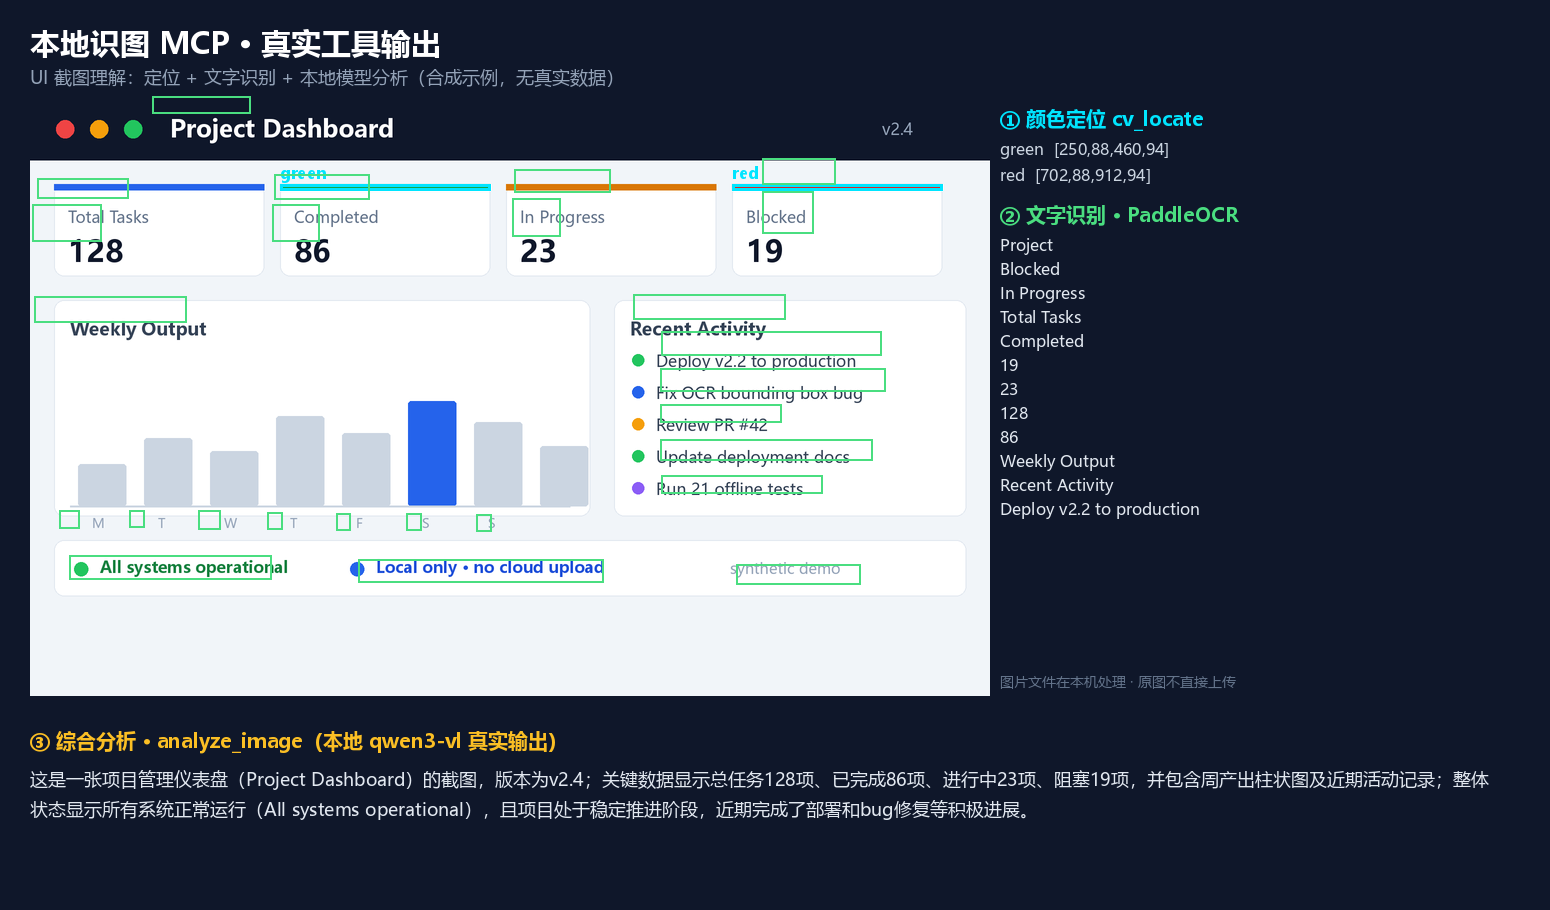
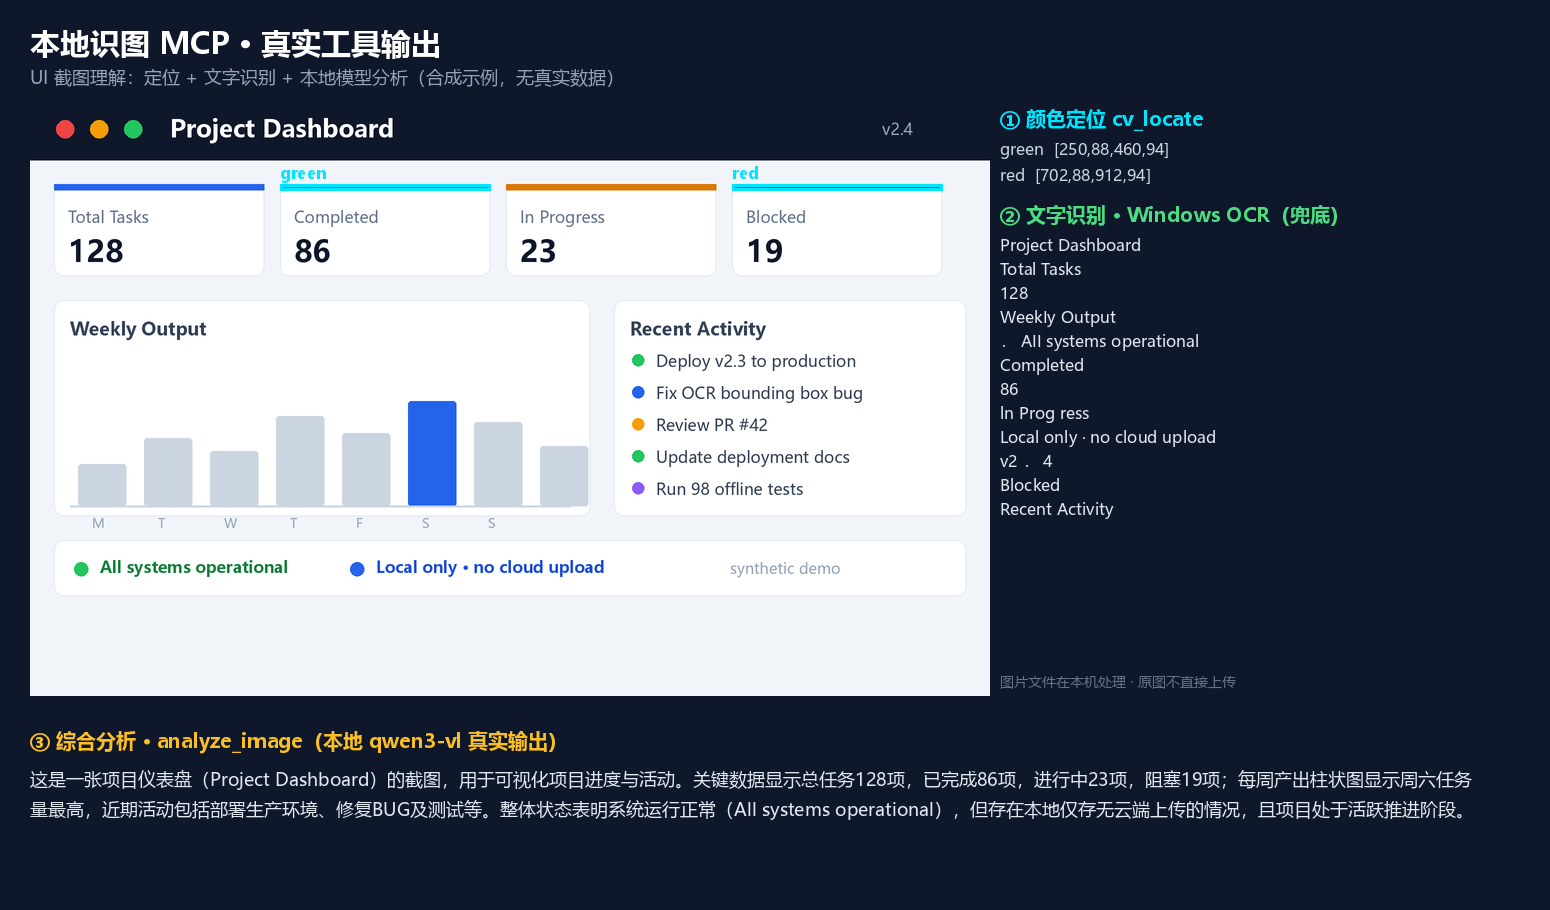
docs(v2.3.0): 全项目过时内容收尾——版本号/工具数/测试数/发布说明/目录树/示例图全部对齐
- README/EN 健壮性章节 v2.2->v2.3；兼容性'已验证组合'改为'协议+CLI 兜底已实测'
- CHANGELOG v2.3.0 日期更正为 08-10；SKILL 版本头 v2.2->v2.3
- 架构说明目录树补 call_tool/register_mcp/check_mcp/AGENTS/使用指南
- release-notes-v2.3.0 全面更新（98 项测试、CLI 兜底、全局 AGENTS、注册安全、args-file、负载规则）
- 部署手册标注 install-skill 同时安装全局 AGENTS；ROADMAP 补已完成项
- 示例图生成脚本文案更新（12 个工具/98 项测试/v2.3），重新生成 architecture/social_preview/demo_annotated

diff --git a/examples/make_showcase_images.py b/examples/make_showcase_images.py
@@ -107,11 +107,11 @@ def make_demo_input(scale=2):
     d.rounded_rectangle([584 * S, 204 * S, 936 * S, 420 * S], radius=10 * S, fill="#ffffff", outline="#e2e8f0", width=1 * S)
     d.text((600 * S, 220 * S), "Recent Activity", font=font(FONT_BOLD, 18 * S), fill="#334155")
     acts = [
-        ("#22c55e", "Deploy v2.2 to production"),
+        ("#22c55e", "Deploy v2.3 to production"),
         ("#2563eb", "Fix OCR bounding box bug"),
         ("#f59e0b", "Review PR #42"),
         ("#22c55e", "Update deployment docs"),
-        ("#8b5cf6", "Run 21 offline tests"),
+        ("#8b5cf6", "Run 98 offline tests"),
     ]
     ay = 254 * S
     for color, text in acts:
@@ -287,7 +287,7 @@ def make_social_preview():
     d.text((70, 232), "本地眼睛", font=font(FONT_BOLD, 84), fill="#ffffff")
     d.text((70, 344), "OCR · 检测 · 分割 · 零样本 · 定位 · 裁切放大", font=font(FONT_REG, 38), fill="#cbd5e1")
     d.text((70, 400), "图片文件不出本机 · 视觉识别全本地", font=font(FONT_REG, 38), fill="#7dd3fc")
-    chips = ["11 个工具", "21 项离线测试", "相同图片缓存秒回", "多轮闭环防幻觉"]
+    chips = ["12 个工具", "98 项离线测试", "相同图片缓存秒回", "多轮闭环防幻觉"]
     cx, cy = 70, 492
     for chip in chips:
         tw = d.textlength(chip, font=font(FONT_BOLD, 26))
@@ -319,7 +319,7 @@ def make_architecture():
 
     box(50, 210, 260, 240, "MCP 客户端", ["Codex / Claude Code", "Cursor / Trae / opencode", "", "纯文本主模型", "DeepSeek 等"], "#7dd3fc")
     box(380, 70, 300, 170, "vision-perceive skill", ["快速/详细模式决策", "多轮识图闭环", "概览→聚焦→交叉校验"], "#fbbf24")
-    box(760, 70, 340, 170, "server.py · MCP stdio", ["11 个工具：描述 / OCR / 检测", "/ 分割 / 零样本 / 定位 / 裁切", "/ 画框 / 信息 / 模型 / 状态"], "#38bdf8")
+    box(760, 70, 340, 170, "server.py · MCP stdio", ["12 个工具：描述 / OCR / 检测", "/ 分割 / 零样本 / 定位 / 裁切", "/ 画框 / 对比 / 信息 / 模型 / 状态"], "#38bdf8")
     draw_arrow(d, 310, 260, 380, 135, "#475569")
     draw_arrow(d, 680, 150, 760, 150, "#475569")
 

diff --git a/docs/release-notes-v2.3.0.md b/docs/release-notes-v2.3.0.md
@@ -1,16 +1,18 @@
-# v2.3.0 本地识图 MCP：DeepSeek 看图 + 多图支持
+# v2.3.0 本地识图 MCP：DeepSeek 看图 + 多图支持 + CLI 兜底
 
 给 DeepSeek 等纯文本模型补上本地"看图"能力：Ollama 视觉模型描述 + PaddleOCR 文字识别 + YOLO 检测/分割 + 零样本检测 + 颜色/模板定位 + 裁切放大 + 多图逐张/拼图对比，图片全程不出本机。
+**MCP 优先、命令行兜底**：客户端不注入 MCP 工具时，`call_tool.py` 命令行动手可用，不依赖客户端设置。
 
-## 功能总览（12 个工具）
+## 功能总览（12 个工具 + CLI 入口）
 
-- `analyze_image`：本地视觉模型看图；`file_paths` 多图自动**逐张完整分析**后合并返回（图1/图2…标签），quick / detailed 双模式
-- `compare_images`：**新增**。用户明确要求"对比 / 有什么区别"时，多图按编号拼成网格、一次分析异同
+- `analyze_image`：本地视觉模型看图；`file_paths` 多图自动逐张完整分析后合并返回，quick / detailed 双模式
+- `compare_images`：**新增**。用户明确要求对比时，多图按编号拼成网格、一次分析异同
 - `ocr_extract`：PaddleOCR 场景文字识别（含坐标框），未装自动回退 Windows OCR
 - `detect_objects` / `segment_objects` / `detect_by_text`：YOLO 检测 / 分割 / 零样本检测
 - `cv_locate`：颜色分割 / 模板匹配定位，不依赖深度学习模型
 - `crop_image` / `draw_bounding_box` / `image_info`：裁切放大、画框验证、尺寸信息
 - `list_local_models` / `vision_status`：模型列表与一键排障
+- `call_tool.py`：命令行调用入口（`python call_tool.py <工具名> '<JSON 参数>'`），MCP 不可用时等价使用
 
 ## v2.3.0 更新内容
 
@@ -18,23 +20,25 @@
 
 - 多图支持：`analyze_image(file_paths=[...])` 逐张独立分析后合并返回，不再静默丢弃第二张
 - `compare_images` 对比工具：多图拼成带编号的网格图，一次分析异同（拼接会缩小单图，细节请逐张分析）
-- 基准测试套件：47 个合成用例 + 指标报告（OCR / 颜色定位 / 模板匹配 / 裁切 / 输入校验），可复现
-- 英文 README（README.en.md）+ 首页英文简介；中文 Issue 模板；ROADMAP
-- 边界与纵深测试：`test_edge_cases.py`（22 项）+ `test_robustness.py`（28 项），全量 87 项离线测试
+- **CLI 兜底**：`call_tool.py` 直接参数 / `--args-file` / stdin 三种传参，客户端不注入 MCP 工具时同样可用
+- **全局 AGENTS.md**：`install-skill.ps1` 安装时写入本机识图工具入口，Codex 所有对话自动生效，无需贴指令
+- **skill 负载安全规则**：默认快速、详细模式前置说明、禁止并行重推理、单次任务模型调用上限 3 次
+- 基准测试套件：47 个合成用例 + 指标报告，可复现；英文 README；中文 Issue 模板；ROADMAP；识图使用指南
+- 边界与纵深测试：`test_edge_cases.py`（22 项）+ `test_robustness.py`（28 项）+ `test_cli.py`（11 项）
 
 **修复**
 
 - EXIF 方向：手机竖拍照片在分析 / 裁切 / 定位中自动转正
 - 非法颜色明确报错，不再静默降级为红色
-- `crop_image` 放大输出上限 50MP，防止内存被撑爆
-- 裁切右 / 下边界允许取到 w/h（原来永远少 1 像素）
+- `crop_image` 放大输出上限 50MP，防止内存被撑爆；裁切右 / 下边界允许取到 w/h
 - 透明 PNG 在拼图 / 画框中以白色打底，不再黑底
 - `OLLAMA_HOST` 带路径（如代理地址）时端口追加错位
 - PaddleOCR 结果解析器对畸形条目逐条防御，不再整页失败
+- 注册安全：`register_mcp.py` 外科手术式修改配置（备份 + 写前/写后校验 + 失败自动回滚 + 检测 Codex 运行中止）
 
 **测试**
 
-- 87 项离线测试全部通过；基准 44/47（3 个失败为 Windows OCR 真实误读：金额→全额、O→0、新→亲斤）
+- 98 项离线测试全部通过（协议 / 缓存 / 重试 / 多图 / EXIF / 边界 / CLI 等）；基准 44/47（3 个失败为 Windows OCR 真实误读：金额→全额、O→0、新→亲斤）
 
 ## 快速上手
 
@@ -45,6 +49,7 @@ powershell -ExecutionPolicy Bypass -File setup.ps1 -Extras
 ## 文档
 
 - 部署与常见问题：https://github.com/Yuhang-uestc/deepvision-local-mcp/blob/master/docs/部署与常见问题.md
+- 识图使用指南：https://github.com/Yuhang-uestc/deepvision-local-mcp/blob/master/docs/识图使用指南.md
 - 架构说明：https://github.com/Yuhang-uestc/deepvision-local-mcp/blob/master/docs/架构说明.md
 - Roadmap：https://github.com/Yuhang-uestc/deepvision-local-mcp/blob/master/ROADMAP.md
 

diff --git a/README.en.md b/README.en.md
@@ -224,7 +224,7 @@ Pre-download the zero-shot model (optional, avoids waiting on first call):
 python -c "from ultralytics import YOLO; YOLO('yoloe-v8s-seg.pt')"
 ```
 
-## Robustness & security (v2.2)
+## Robustness & security (v2.3)
 
 - **Result caching**: `analyze_image` / `ocr_extract` cache by "same image content + same params" (content hash, so replacing a file invalidates the cache). Repeat calls return instantly. Disable with `LOCAL_VISION_CACHE=0`.
 - **Auto retry**: transient Ollama failures (HTTP 429/5xx, network jitter) retry with exponential backoff (default 2); a missing model (404) is not retried — you get an install hint instead.
@@ -303,7 +303,7 @@ It covers OCR (Chinese/English/tables/small text), color locating & counting, te
 
 ## Compatibility (switching tools / models / platforms)
 
-This project follows the standard MCP protocol — **vision is decoupled from the main model and the client**. The verified combination is **Codex + DeepSeek (Windows)**; the combinations below are compatible by protocol but **not individually tested**. If something goes wrong, follow "Deployment & FAQ".
+This project follows the standard MCP protocol — **vision is decoupled from the main model and the client**. Verified: **the server protocol and CLI fallback work with Codex + DeepSeek (Windows)**; the combinations below are compatible by protocol but **not individually tested**. If something goes wrong, follow "Deployment & FAQ".
 
 Important premise: **whether MCP tools are actually callable depends on the client injecting them into the current conversation** — this is client behavior, not a property of the server (e.g. some desktop clients do not inject MCP tools for third-party model channels; the client's own bundled MCP servers may not be injected either). Therefore:
 

diff --git a/docs/架构说明.md b/docs/架构说明.md
@@ -101,6 +101,11 @@ flowchart TB
 ```
 vision-mcp-local/
 ├── server.py                  MCP 服务器（单文件，核心）
+├── call_tool.py               命令行工具入口（CLI 兜底，不依赖客户端注入）
+├── register_mcp.py            安全注册 MCP 的 Python 实现（备份/校验/回滚）
+├── check_mcp.py               MCP 连通性握手探针
+├── AGENTS.md                  项目级识图规范（Codex 自动加载）
+├── AGENTS.global.template.md  全局 AGENTS 模板（安装时注入本机路径）
 ├── win_ocr.ps1                Windows 内置 OCR 桥接
 ├── skills/vision-perceive/    多轮识图 skill（SKILL.md + agents 配置）
 ├── tests/                     离线单元测试 + 真机冒烟测试
@@ -108,6 +113,7 @@ vision-mcp-local/
 ├── docs/
 │   ├── 架构说明.md            本文档
 │   ├── 部署与常见问题.md      用户向部署手册
+│   ├── 识图使用指南.md        场景 → 工具速查（含 CLI 示例）
 │   └── 开发记录与踩坑.md      开发者内部记录
 ├── install.ps1 / register-mcp.ps1 / install-skill.ps1 / install-extra.ps1
 ├── check.ps1                  环境自检

diff --git a/README.md b/README.md
@@ -233,7 +233,7 @@ powershell -ExecutionPolicy Bypass -File install-extra.ps1
 python -c "from ultralytics import YOLO; YOLO('yoloe-v8s-seg.pt')"
 ```
 
-## 健壮性与安全（v2.2）
+## 健壮性与安全（v2.3）
 
 - **结果缓存**：`analyze_image` / `ocr_extract` 对"相同图片内容 + 相同参数"自动命中缓存（按内容哈希，文件被替换会自动失效），
   第二次调用秒回，不用重复等本地模型推理。可用 `LOCAL_VISION_CACHE=0` 关闭。
@@ -318,7 +318,7 @@ python benchmarks\run_benchmark.py
 
 ## 兼容性（换工具 / 换模型 / 换平台）
 
-本项目按标准 MCP 协议设计，**视觉能力与主模型、客户端解耦**。当前已验证组合：**Codex + DeepSeek（Windows）**；
+本项目按标准 MCP 协议设计，**视觉能力与主模型、客户端解耦**。已实测：**server 协议 + CLI 兜底在 Codex + DeepSeek（Windows）下可用**；
 以下组合按标准协议兼容，**未逐项实测**，遇到问题按"部署与常见问题"排查。
 
 需要说明的前提：**MCP 工具能否被调用，取决于客户端是否把它注入当前会话**——这是客户端行为，与 server 无关

diff --git a/docs/部署与常见问题.md b/docs/部署与常见问题.md
@@ -43,7 +43,7 @@ powershell -ExecutionPolicy Bypass -File .\check.ps1
 #    重要：运行前先完全退出 Codex 桌面应用，注册完再启动——否则运行中的应用可能用旧配置覆盖修改
 powershell -ExecutionPolicy Bypass -File .\register-mcp.ps1
 
-# ⑤ 安装识图 skill
+# ⑤ 安装识图 skill（会同时安装全局 AGENTS.md：本机识图工具入口，对 Codex 所有对话生效）
 powershell -ExecutionPolicy Bypass -File .\install-skill.ps1
 
 # ⑥ 重启 Codex（工具列表是启动时加载的，不重启不生效）
@@ -190,6 +190,8 @@ powershell -ExecutionPolicy Bypass -File .\install-skill.ps1
   ```
   例如 `python call_tool.py analyze_image '{"file_path":"C:/x.png","mode":"quick"}'`；
   不带参数运行会列出全部 12 个工具。`vision-perceive` skill 也会在 MCP 工具不可用时自动改用 CLI，不会跳过识图。
+- **装过 skill 后，其它对话也能直接识图**：`install-skill.ps1` 会同时安装全局 AGENTS.md（本机识图工具入口），
+  对 Codex 所有对话生效——新对话发图即可，无需贴指令。安装后需重启 Codex。
 
 ## 5. 隐私与许可
 

diff --git a/skills/vision-perceive/SKILL.md b/skills/vision-perceive/SKILL.md
@@ -3,7 +3,7 @@ name: vision-perceive
 description: 多轮识图闭环。当用户要求识别、描述或分析一张图片（截图、照片、图表、UI、文档、遥感影像）时使用，特别是对准确性有要求时：先判断快速/详细模式，再对同一张图片执行"概览 → 聚焦 → 文字提取 → 精确定位 → 局部放大 → 交叉校验 → 综合报告"的多轮流程，避免单次调用漏细节或传播幻觉。适用于 DeepSeek 等纯文本主模型搭配本地视觉工具的场景。
 ---
 
-# Vision Perceive v2.2（多轮识图闭环）
+# Vision Perceive v2.3（多轮识图闭环）
 
 给纯文本主模型用的识图流程。收到图片请求时，**先选模式再动手**：顺手附图用快速模式，认真分析图片才走多轮闭环。宁多轮、勿幻觉；图片只在本机处理。
 

diff --git a/ROADMAP.md b/ROADMAP.md
@@ -9,6 +9,7 @@
 - 英文 README + 仓库卫生（密钥、权重、真人照片、营销素材全部 gitignore）
 - Issue 模板（Bug 报告 / 功能建议，中文）
 - 多图支持（v2.3.0）：`analyze_image` 多图逐张分析 + `compare_images` 拼图对比，共 12 个工具
+- CLI 兜底 + 全局 AGENTS 规范（v2.3.0）：不依赖客户端 MCP 注入，命令行动手可用；安装 skill 时自动装全局识图入口
 
 ## 近期规划（按优先级）
 

diff --git a/CHANGELOG.md b/CHANGELOG.md
@@ -1,6 +1,6 @@
 # Changelog
 
-## v2.3.0（2026-08-09）
+## v2.3.0（2026-08-10）
 
 ### 新增
 - **多图支持**：`analyze_image(file_paths=[...])` 多图时逐张独立分析后合并返回（每张都完整看，带图1/图2…标签），不再只认第一张
